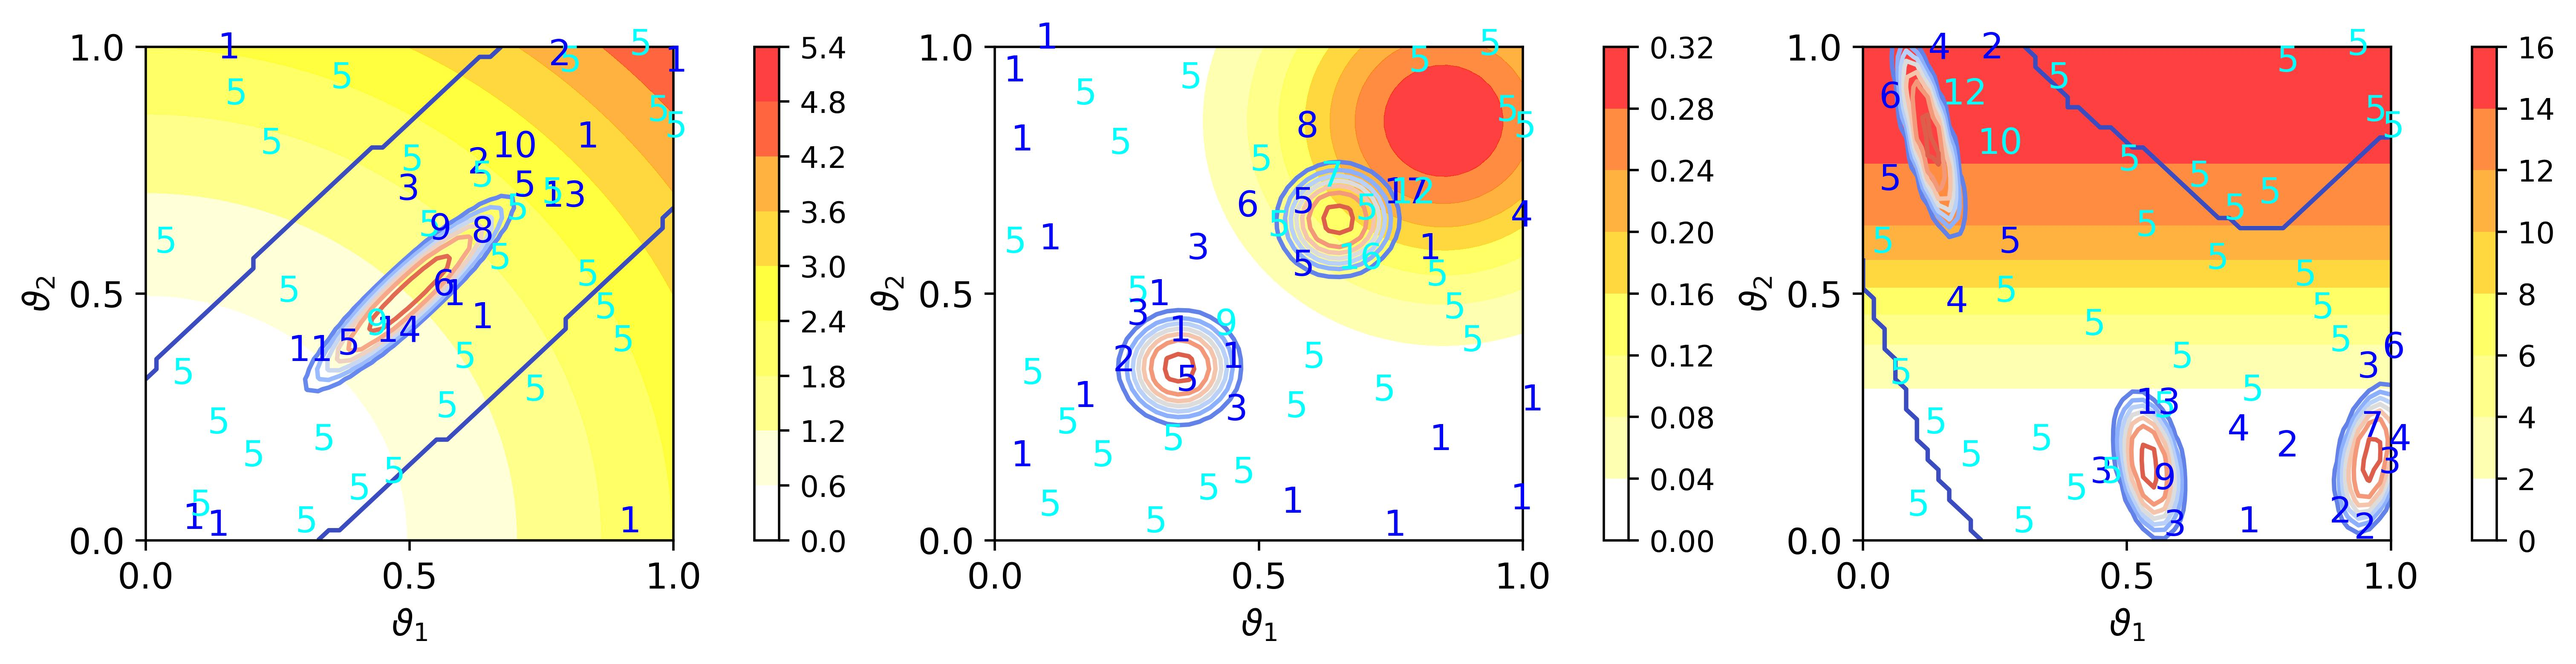
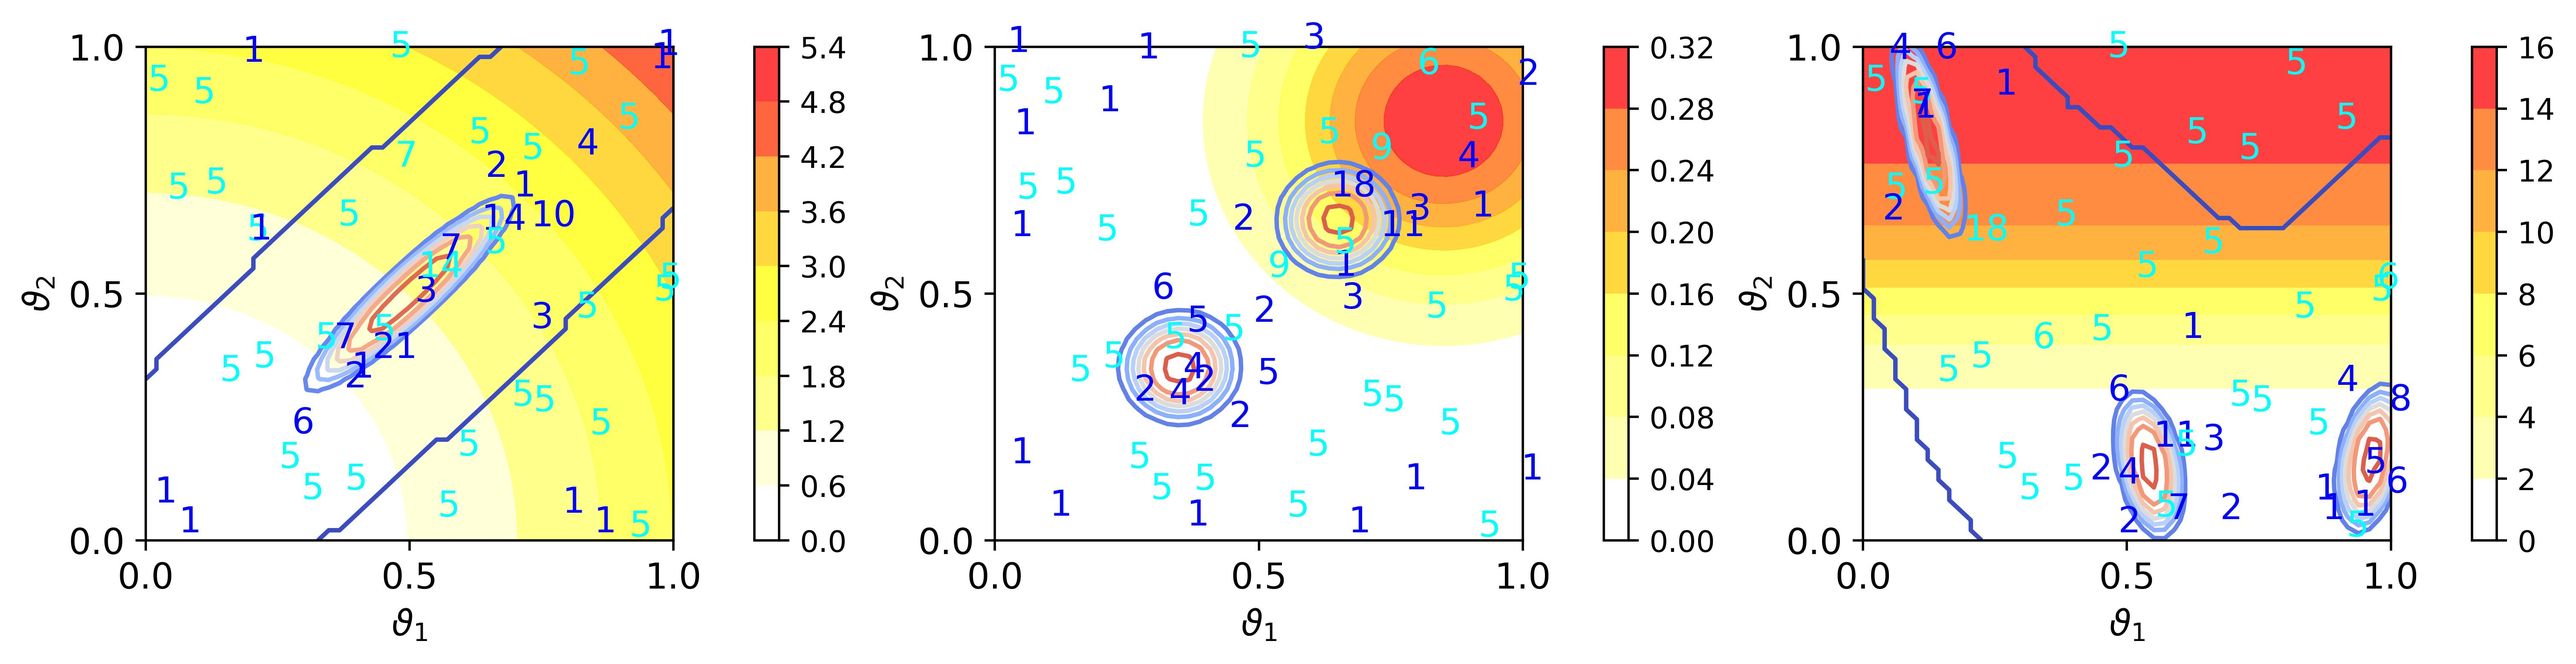
Example 5

diff --git a/examples/Example5/example.py b/examples/Example5/example.py
@@ -2,7 +2,7 @@ import numpy as np
 from utils import fig6
 from utils_sample import test_data_gen
 import matplotlib.pyplot as plt
-from smt.sampling_methods import LHS
+from scipy.stats import qmc
 from PUQ.designmethods.sequential_1d_stochastic import sequential_design
 from test_functions import unimodalx, bimodalx, braninx
 
@@ -53,8 +53,8 @@ if __name__ == "__main__":
 
         # Initial sample
         n0, rep0 = 30, 5
-        sampling = LHS(xlimits=cex.zlim, random_state=int(s))
-        z0u = sampling(n0)
+        sampling = qmc.LatinHypercube(d=cex.zlim.shape[0], seed=int(s))
+        z0u = sampling.random(n=n0)
         z0 = np.repeat(z0u, rep0, axis=0)
         f0 = np.array(
             [cex.sim_f(z0[i, :], persis_info=persis_info) for i in range(n0 * rep0)]

diff --git a/PUQ/designmethods/gen_funcs/acquisition_md_stochastic.py b/PUQ/designmethods/gen_funcs/acquisition_md_stochastic.py
@@ -51,7 +51,6 @@ def impute_strategy(ct, x, fE, tE, emu, liar, des_obj):
     if impute_str == "update":
         # update(emu._info, x=x, X0new=ct, mult=rep)
         Xnew = np.repeat(ct, rep, axis=0)
-        print(Xnew)
         emu.update(x=Xnew)
         fE, tE = impute(
             ct=ct, x=x, fE=fE, tE=tE, reps=rep, emu=emu, rnd_str=rand_stream

diff --git a/PUQ/designmethods/sequential_1d_stochastic.py b/PUQ/designmethods/sequential_1d_stochastic.py
@@ -11,7 +11,7 @@ from PUQ.surrogate import emulator
 
 
 class sequential_design:
-    def __init__(self, cls_func, trace=True):
+    def __init__(self, cls_func, trace=False):
         self.cls_func = cls_func
         self.trace = trace
         self.y = self.cls_func.real_data
